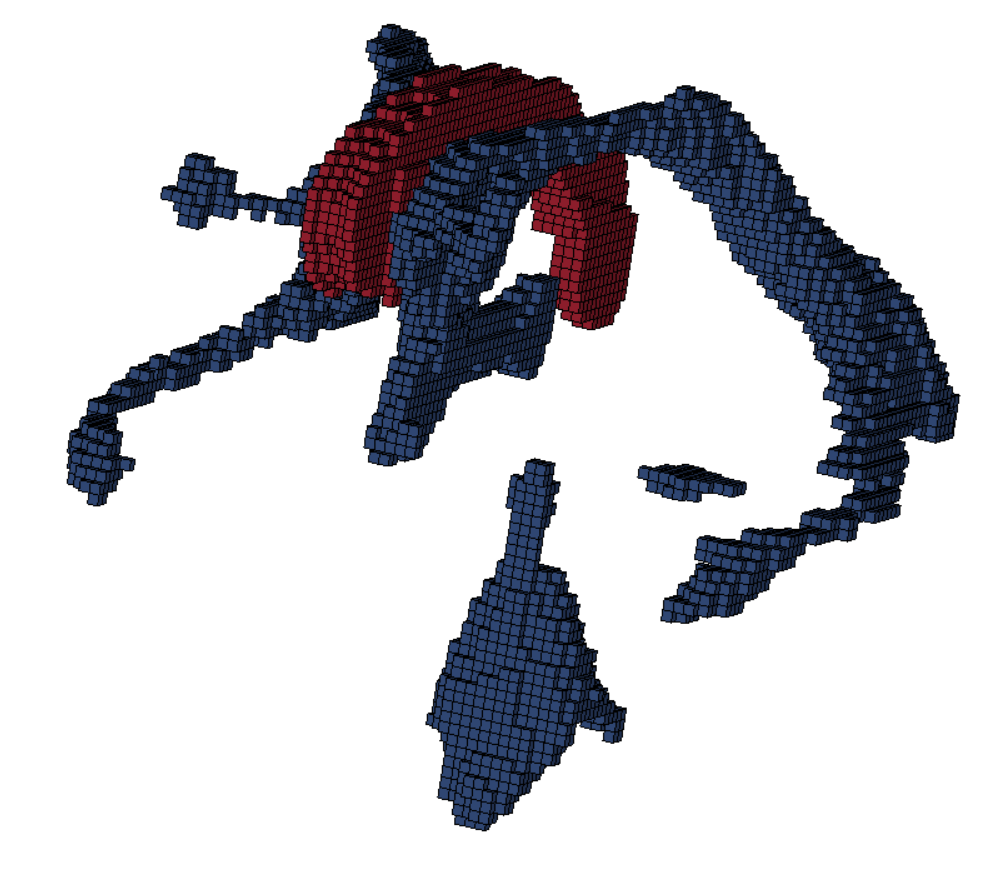
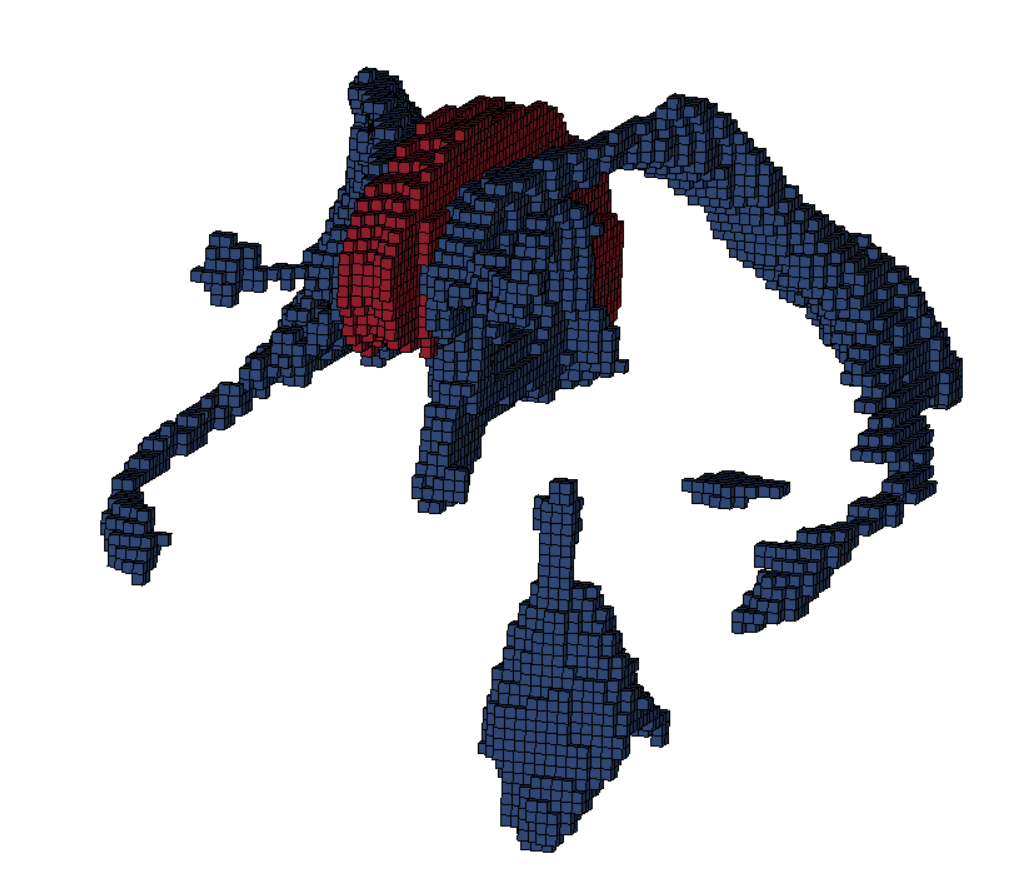
V1

Changed region(s): [[0.0621, 0.0303, 0.962, 0.7273], [0.4034, 0.5152, 0.6517, 0.9697]]

diff --git a/README.md b/README.md
@@ -41,8 +41,8 @@ Below are some details of the voxelized human head model
 <h3 align="center"><strong>Figure 4: Right Cerebral Grey Matter</strong></h3>
 
 7. __Ventricles__ ([Figure 5](#fig5) : In Blue color)
-    - 9737 (Total Number of voxel/hex elements)
-    - 16093 (Total Number of nodes) 
+    - 10769 (Total Number of voxel/hex elements)
+    - 17924 (Total Number of nodes) 
 
 ![Figure 5: Ventricles](https://github.com/CompMechPitt/Inversion_FreeAnalysis_VoxHumanHeadModel/blob/main/Images/Ventricles.PNG)<!-- Label: fig4 -->
 
@@ -75,10 +75,42 @@ Below are some details of the voxelized human head model
 
 <h3 align="center"><strong>Figure 8: Corpus Callosum</strong></h3> 
 
-12. __Brain Stem__ ([Figure9](#fig9) below: In CyanGreen color)
-    - 2835 (Total Number of voxel/hex elements)
-    - 4305 (Total Number of nodes) 
+12. __Brain Stem__ ([Figure9](#fig9) below: In Golden color)
+    - 21519 (Total Number of voxel/hex elements)
+    - 25819 (Total Number of nodes) 
 
-![Figure 9: Brain Stem](https://github.com/CompMechPitt/Inversion_FreeAnalysis_VoxHumanHeadModel/blob/main/Images/Brain_Stem.PNG)<!-- Label: fig8 -->
+![Figure 9: Brain Stem](https://github.com/CompMechPitt/Inversion_FreeAnalysis_VoxHumanHeadModel/blob/main/Images/Brain_Stem.PNG)<!-- Label: fig9 -->
 
 <h3 align="center"><strong>Figure 9: Brain Stem</strong></h3> 
+
+13. __CSF__ ([Figure10](#fig10) below: In GrayishBlue color)
+    - 431872 (Total Number of voxel/hex elements)
+    - 689600 (Total Number of nodes) 
+
+![Figure 10: CSF](https://github.com/CompMechPitt/Inversion_FreeAnalysis_VoxHumanHeadModel/blob/main/Images/CSF.PNG)<!-- Label: fig10 -->
+
+<h3 align="center"><strong>Figure 10: Cut Section of CSF</strong></h3> 
+
+14. __Dura__ ([Figure11](#fig11) below: In LightGreen color)
+    - 158989 (Total Number of voxel/hex elements)
+    - 303239 (Total Number of nodes) 
+
+![Figure 11: Dura](https://github.com/CompMechPitt/Inversion_FreeAnalysis_VoxHumanHeadModel/blob/main/Images/Dura.PNG)<!-- Label: fig11 -->
+
+<h3 align="center"><strong>Figure 11: Cut Section of Dura</strong></h3> 
+
+15. __Skull__ ([Figure12](#fig12) below: In Brown color)
+    - 477488 (Total Number of voxel/hex elements)
+    - 610142 (Total Number of nodes) 
+
+![Figure 12: Dura](https://github.com/CompMechPitt/Inversion_FreeAnalysis_VoxHumanHeadModel/blob/main/Images/Skull.PNG)<!-- Label: fig12 -->
+
+<h3 align="center"><strong>Figure 12: Cut Section of Skull</strong></h3> 
+
+16. __Remaining Elements__ ([Figure13](#fig13) below: In Green color)
+    - 321 (Total Number of voxel/hex elements)
+    - 1651 (Total Number of nodes) 
+
+![Figure 13: Dura](https://github.com/CompMechPitt/Inversion_FreeAnalysis_VoxHumanHeadModel/blob/main/Images/Remaining_Elements.PNG)<!-- Label: fig13 -->
+
+<h3 align="center"><strong>Figure 13: Remaining Elements</strong></h3> 
